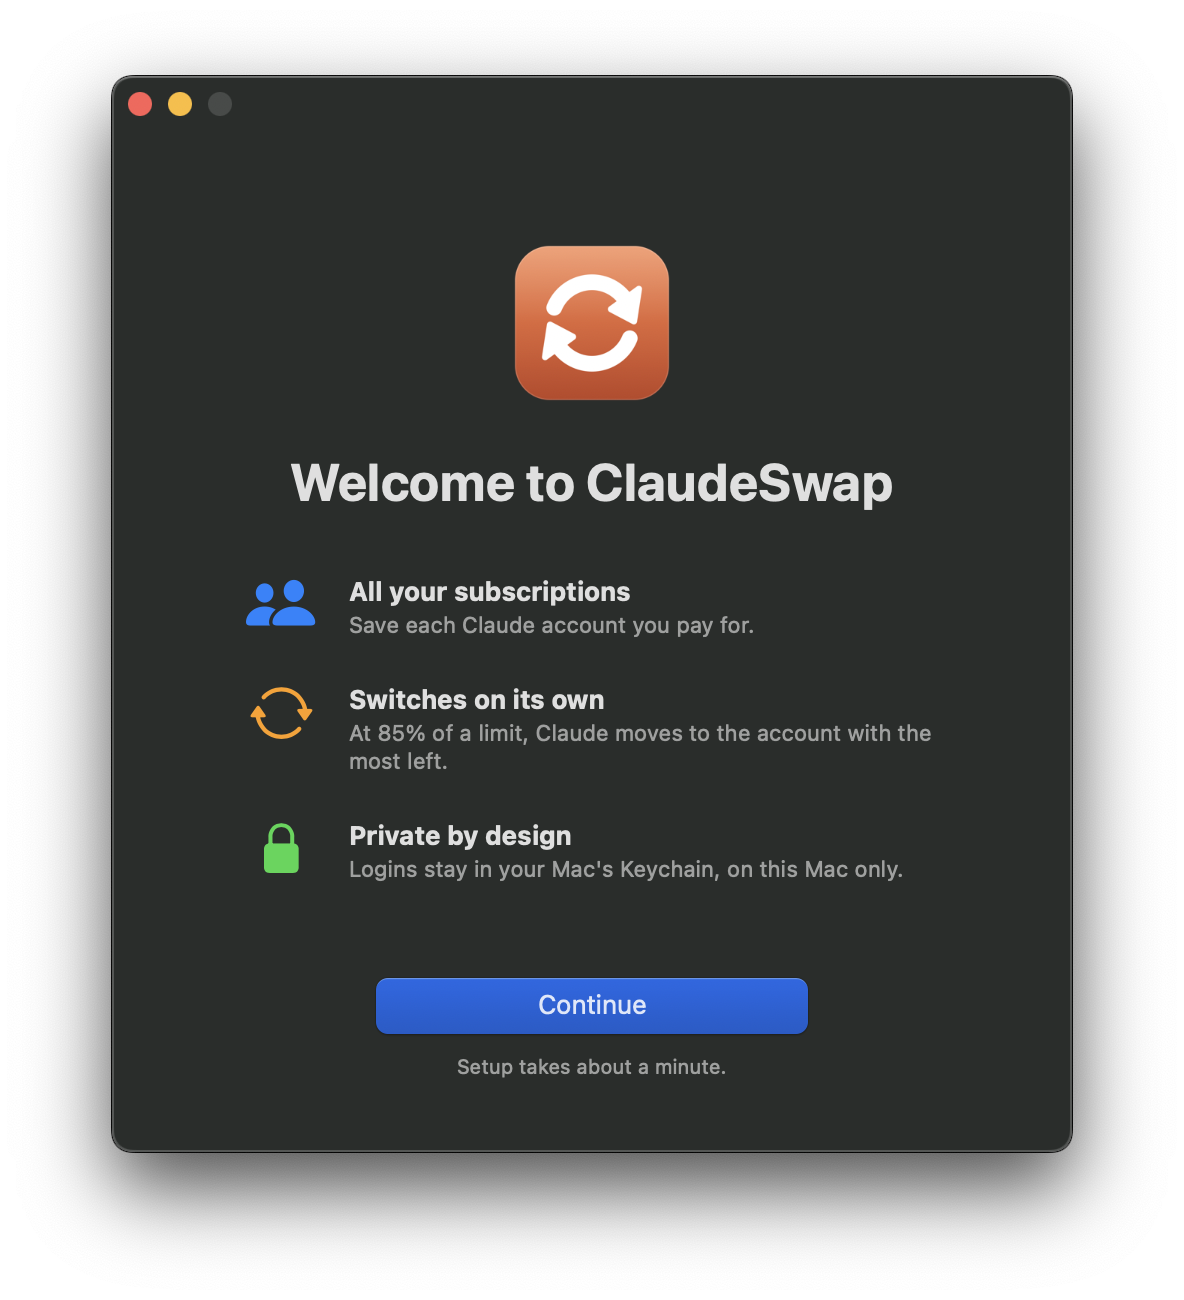
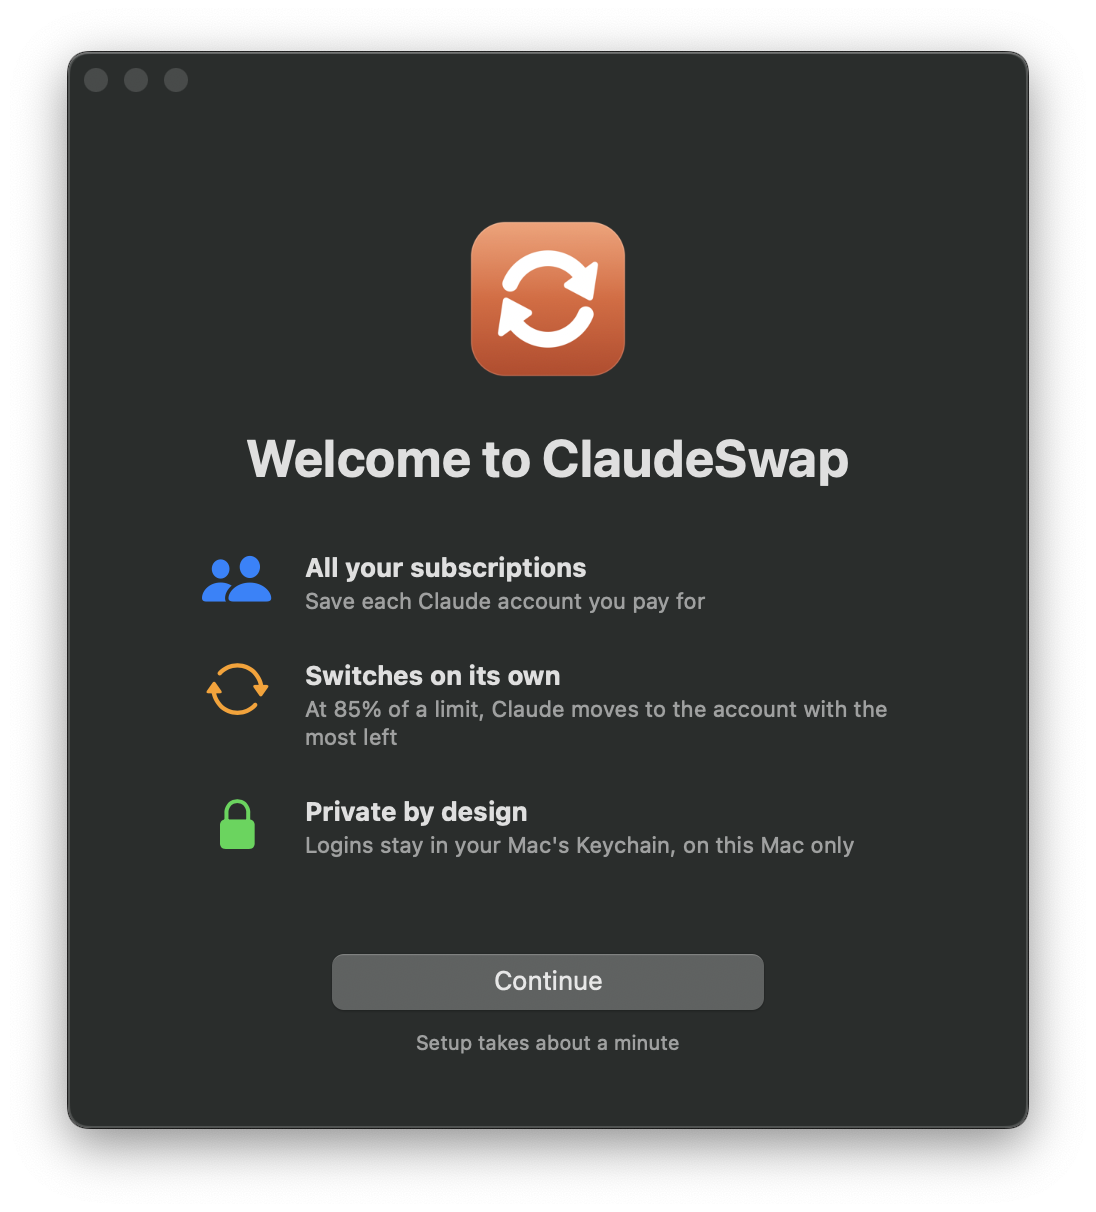
Drop trailing periods from UI copy

diff --git a/app/Switcher.swift b/app/Switcher.swift
@@ -240,7 +240,7 @@ final class Model: ObservableObject {
         if let parsed = try? JSONDecoder().decode(AccountList.self, from: Data(list.out.utf8)) {
             accounts = parsed.accounts
         } else {
-            error = "Couldn't read your accounts. Try Refresh."
+            error = "Couldn't read your accounts. Try Refresh"
         }
         let auth = await Shell.run("claude auth status --json")
         let status = try? JSONDecoder().decode(AuthStatus.self, from: Data(auth.out.utf8))
@@ -299,7 +299,7 @@ final class Model: ObservableObject {
 
     private func installFailed() {
         phase = .needsSetup
-        error = "Setup didn't finish. Check your internet and try again."
+        error = "Setup didn't finish. Check your internet and try again"
     }
 
     // Each step is a cswap command; "y" answers any overwrite confirmation.
@@ -313,11 +313,11 @@ final class Model: ObservableObject {
 
     func saveSignedIn(slot: Int? = nil) async {
         let cmd = slot.map { "cswap add --slot \($0)" } ?? "cswap add"
-        await act(cmd, failure: "Couldn't save that account.")
+        await act(cmd, failure: "Couldn't save that account")
     }
 
-    func use(_ a: Account) async { await act("cswap switch \(a.number)", failure: "Couldn't switch to \(a.email).") }
-    func remove(_ a: Account) async { await act("cswap remove \(a.number)", failure: "Couldn't remove \(a.email).") }
+    func use(_ a: Account) async { await act("cswap switch \(a.number)", failure: "Couldn't switch to \(a.email)") }
+    func remove(_ a: Account) async { await act("cswap remove \(a.number)", failure: "Couldn't remove \(a.email)") }
 
     func startSignIn(slot: Int? = nil) {
         error = nil
@@ -334,7 +334,7 @@ final class Model: ObservableObject {
             try p.run()
             signIn = session
         } catch {
-            self.error = "Couldn't start sign-in."
+            self.error = "Couldn't start sign-in"
         }
     }
 
@@ -354,7 +354,7 @@ final class Model: ObservableObject {
         if code == 0 {
             await saveSignedIn(slot: s.slot)
         } else {
-            error = "Sign-in didn't finish. Try again."
+            error = "Sign-in didn't finish. Try again"
         }
     }
 
@@ -418,7 +418,7 @@ final class Model: ObservableObject {
             let data = try? PropertyListSerialization.data(fromPropertyList: plist, format: .xml, options: 0)
             FileManager.default.createFile(atPath: autoPlist, contents: data)
             if await Shell.run("launchctl bootstrap gui/\(uid) '\(autoPlist)'").code != 0 {
-                error = "Couldn't turn on auto-switching."
+                error = "Couldn't turn on auto-switching"
             }
         } else {
             try? FileManager.default.removeItem(atPath: autoPlist)
@@ -460,12 +460,12 @@ final class Model: ObservableObject {
             Task { @MainActor in
                 // Still running means the update didn't replace us (failed, or brew saw nothing new).
                 self.updating = false
-                self.error = "Update didn't finish. See the log."
+                self.error = "Update didn't finish. See the log"
             }
         }
         do { try p.run() } catch {
             updating = false
-            self.error = "Couldn't start the update."
+            self.error = "Couldn't start the update"
         }
     }
 
@@ -477,7 +477,7 @@ final class Model: ObservableObject {
             ? "uv tool install --upgrade 'claude-swap[menubar]' && cswap menubar --install-service"
             : "cswap menubar --uninstall-service"
         if await Shell.run(cmd).code != 0 {
-            error = "Couldn't change the menu bar icon."
+            error = "Couldn't change the menu bar icon"
         }
         menubarOn = FileManager.default.fileExists(atPath: menubarPlist)
     }
@@ -569,7 +569,7 @@ struct NeedsClaudeView: View {
     @EnvironmentObject var model: Model
     var body: some View {
         Onboarding(title: "Install Claude Code First") {
-            Text("ClaudeSwap works with Claude Code. Install it, then come back here.")
+            Text("ClaudeSwap works with Claude Code. Install it, then come back here")
                 .foregroundStyle(.secondary)
                 .multilineTextAlignment(.center)
         } footer: {
@@ -590,11 +590,11 @@ struct SetupView: View {
         Onboarding(title: "Welcome to ClaudeSwap") {
             VStack(alignment: .leading, spacing: 22) {
                 Feature(icon: "person.2.fill", color: .blue, title: "All your subscriptions",
-                        text: "Save each Claude account you pay for.")
+                        text: "Save each Claude account you pay for")
                 Feature(icon: "arrow.triangle.2.circlepath", color: .orange, title: "Switches on its own",
-                        text: "At \(model.threshold)% of a limit, Claude moves to the account with the most left.")
+                        text: "At \(model.threshold)% of a limit, Claude moves to the account with the most left")
                 Feature(icon: "lock.fill", color: .green, title: "Private by design",
-                        text: "Logins stay in your Mac's Keychain, on this Mac only.")
+                        text: "Logins stay in your Mac's Keychain, on this Mac only")
             }
         } footer: {
             ErrorText()
@@ -604,7 +604,7 @@ struct SetupView: View {
             .buttonStyle(.borderedProminent)
             .controlSize(.large)
             .keyboardShortcut(.defaultAction)
-            Text("Setup takes about a minute.").font(.caption).foregroundStyle(.secondary)
+            Text("Setup takes about a minute").font(.caption).foregroundStyle(.secondary)
         }
     }
 }
@@ -637,7 +637,7 @@ struct InstallingView: View {
                 Text(model.progress).foregroundStyle(.secondary)
             }
         } footer: {
-            Text("This takes about a minute.").font(.caption).foregroundStyle(.secondary)
+            Text("This takes about a minute").font(.caption).foregroundStyle(.secondary)
         }
     }
 }
@@ -664,7 +664,7 @@ struct ReadyView: View {
                     Section {
                         Banner(icon: "arrow.down.circle.fill", color: .accentColor,
                                title: "ClaudeSwap \(v) is available",
-                               detail: "You have \(appVersion).") {
+                               detail: "You have \(appVersion)") {
                             if model.updating {
                                 ProgressView().controlSize(.small)
                             } else {
@@ -678,8 +678,8 @@ struct ReadyView: View {
                     Section {
                         Banner(icon: "exclamationmark.triangle.fill", color: .orange,
                                title: "All accounts are above \(model.threshold)%",
-                               detail: high.resetAt.map { "Usage frees up on \(high.account ?? "an account") \(relative($0))." }
-                                   ?? "Claude keeps using the account with the most left.") { EmptyView() }
+                               detail: high.resetAt.map { "Usage frees up on \(high.account ?? "an account") \(relative($0))" }
+                                   ?? "Claude keeps using the account with the most left") { EmptyView() }
                     }
                 }
 
@@ -691,7 +691,7 @@ struct ReadyView: View {
                                 .foregroundStyle(Color.accentColor)
                             VStack(alignment: .leading, spacing: 2) {
                                 Text(email).lineLimit(1).truncationMode(.middle)
-                                Text("You're signed in to Claude with this account.")
+                                Text("You're signed in to Claude with this account")
                                     .font(.caption)
                                     .foregroundStyle(.secondary)
                             }
@@ -726,13 +726,13 @@ struct ReadyView: View {
 
             VStack(alignment: .leading, spacing: 14) {
                 SettingRow(title: "Switch automatically",
-                           detail: "Move to the account with the most usage left.",
+                           detail: "Move to the account with the most usage left",
                            isOn: Binding(get: { model.autoOn }, set: { v in Task { await model.setAuto(v) } }))
                 if model.autoOn {
                     HStack {
                         VStack(alignment: .leading, spacing: 2) {
                             Text("Switch at")
-                            Text("Of an account's 5-hour or weekly limit.").font(.caption).foregroundStyle(.secondary)
+                            Text("Of an account's 5-hour or weekly limit").font(.caption).foregroundStyle(.secondary)
                         }
                         Spacer()
                         Picker("Switch at", selection: Binding(get: { model.threshold },
@@ -747,7 +747,7 @@ struct ReadyView: View {
                     }
                 }
                 SettingRow(title: "Show in menu bar",
-                           detail: "See usage and switch accounts from the top of your screen.",
+                           detail: "See usage and switch accounts from the top of your screen",
                            isOn: Binding(get: { model.menubarOn }, set: { v in Task { await model.setMenubar(v) } }))
                 HStack {
                     ErrorText()
@@ -767,7 +767,7 @@ struct ReadyView: View {
                 .keyboardShortcut(.defaultAction)
             Button("Cancel", role: .cancel) {}
         } message: {
-            Text("Shown instead of \(model.renaming?.email ?? "the email"). Leave empty to show the email.")
+            Text("Shown instead of \(model.renaming?.email ?? "the email"). Leave empty to show the email")
         }
         .onChange(of: model.renaming?.email) { email in
             nickname = email.flatMap { model.nicknames[$0] } ?? ""
@@ -857,7 +857,7 @@ struct AccountRow: View {
                     }
                 }
                 if account.needsSignIn {
-                    Text(canFix ? "Saved login is out of date." : "Signed out.")
+                    Text(canFix ? "Saved login is out of date" : "Signed out")
                         .font(.caption)
                         .foregroundStyle(.orange)
                 } else if let u = account.shownUsage {
@@ -949,7 +949,7 @@ struct SignInSheet: View {
                     .foregroundStyle(Color.accentColor)
                 VStack(alignment: .leading, spacing: 4) {
                     Text("Sign In to Claude").font(.headline)
-                    Text("Finish signing in with your browser, using the account you want to add.")
+                    Text("Finish signing in with your browser, using the account you want to add")
                         .font(.callout)
                         .foregroundStyle(.secondary)
                         .fixedSize(horizontal: false, vertical: true)
@@ -960,7 +960,7 @@ struct SignInSheet: View {
                 Text("Waiting for your browser…").font(.callout).foregroundStyle(.secondary)
             }
             VStack(alignment: .leading, spacing: 6) {
-                Text("If the page shows a code, paste it here.").font(.caption).foregroundStyle(.secondary)
+                Text("If the page shows a code, paste it here").font(.caption).foregroundStyle(.secondary)
                 TextField("Code", text: $code).textFieldStyle(.roundedBorder)
             }
             HStack {

diff --git a/app/Watcher.swift b/app/Watcher.swift
@@ -42,7 +42,7 @@ final class WatcherDelegate: NSObject, NSApplicationDelegate, UNUserNotification
 
         // `switcher --watch --test-notify`: check notifications work on this Mac, then quit.
         if CommandLine.arguments.contains("--test-notify") {
-            notify("ClaudeSwap notifications are on", "You'll hear from it when it switches accounts.")
+            notify("ClaudeSwap notifications are on", "You'll hear from it when it switches accounts")
             DispatchQueue.main.asyncAfter(deadline: .now() + 3) { exit(0) }
             return
         }
@@ -109,17 +109,17 @@ final class WatcherDelegate: NSObject, NSApplicationDelegate, UNUserNotification
             let to = ((e["to"] as? [String: Any])?["email"] as? String).map(displayName) ?? "another account"
             let why: String
             switch (e["trigger"] as? String, from) {
-            case ("proactive", let f?): why = "\(f) reached \(Int(threshold))% of its limit."
-            case ("at-limit", let f?): why = "\(f) hit its usage limit."
-            case ("failover", let f?): why = "\(f) stopped working."
-            default: why = "It has the most usage left."
+            case ("proactive", let f?): why = "\(f) reached \(Int(threshold))% of its limit"
+            case ("at-limit", let f?): why = "\(f) hit its usage limit"
+            case ("failover", let f?): why = "\(f) stopped working"
+            default: why = "It has the most usage left"
             }
             notify("Switched to \(to)", why)
         case "all-exhausted" where !exhaustedNotified:
             exhaustedNotified = true
             allHighNotified = true
-            let back = (e["earliestResetAt"] as? String).flatMap(parseDate).map { "Usage comes back \(relative($0))." }
-            notify("All accounts are out of usage", back ?? "Usage comes back when a limit resets.")
+            let back = (e["earliestResetAt"] as? String).flatMap(parseDate).map { "Usage comes back \(relative($0))" }
+            notify("All accounts are out of usage", back ?? "Usage comes back when a limit resets")
         default:
             break
         }
@@ -128,8 +128,8 @@ final class WatcherDelegate: NSObject, NSApplicationDelegate, UNUserNotification
     private func notifyAllHigh() async {
         let accounts = await loadAccounts()
         let high = allAccountsHigh(accounts, threshold: Int(threshold))
-        let body = high?.resetAt.map { d in "Usage frees up on \(high?.account ?? "an account") \(relative(d))." }
-        notify("All accounts are above \(Int(threshold))%", body ?? "Claude will keep using the account with the most left.")
+        let body = high?.resetAt.map { d in "Usage frees up on \(high?.account ?? "an account") \(relative(d))" }
+        notify("All accounts are above \(Int(threshold))%", body ?? "Claude will keep using the account with the most left")
     }
 
     /// Notifies once per account when its saved login stops working, and again only after it's fixed and breaks again.
@@ -139,7 +139,7 @@ final class WatcherDelegate: NSObject, NSApplicationDelegate, UNUserNotification
         let d = UserDefaults.standard
         var notified = Set(d.stringArray(forKey: signInNotifiedKey) ?? [])
         for a in accounts where a.needsSignIn && !notified.contains(a.email) {
-            notify("\(displayName(a.email)) needs signing in again", "Open ClaudeSwap and click Sign In… to keep using it.")
+            notify("\(displayName(a.email)) needs signing in again", "Open ClaudeSwap and click Sign In… to keep using it")
             notified.insert(a.email)
         }
         notified = notified.filter { email in accounts.contains { $0.email == email && $0.needsSignIn } }
